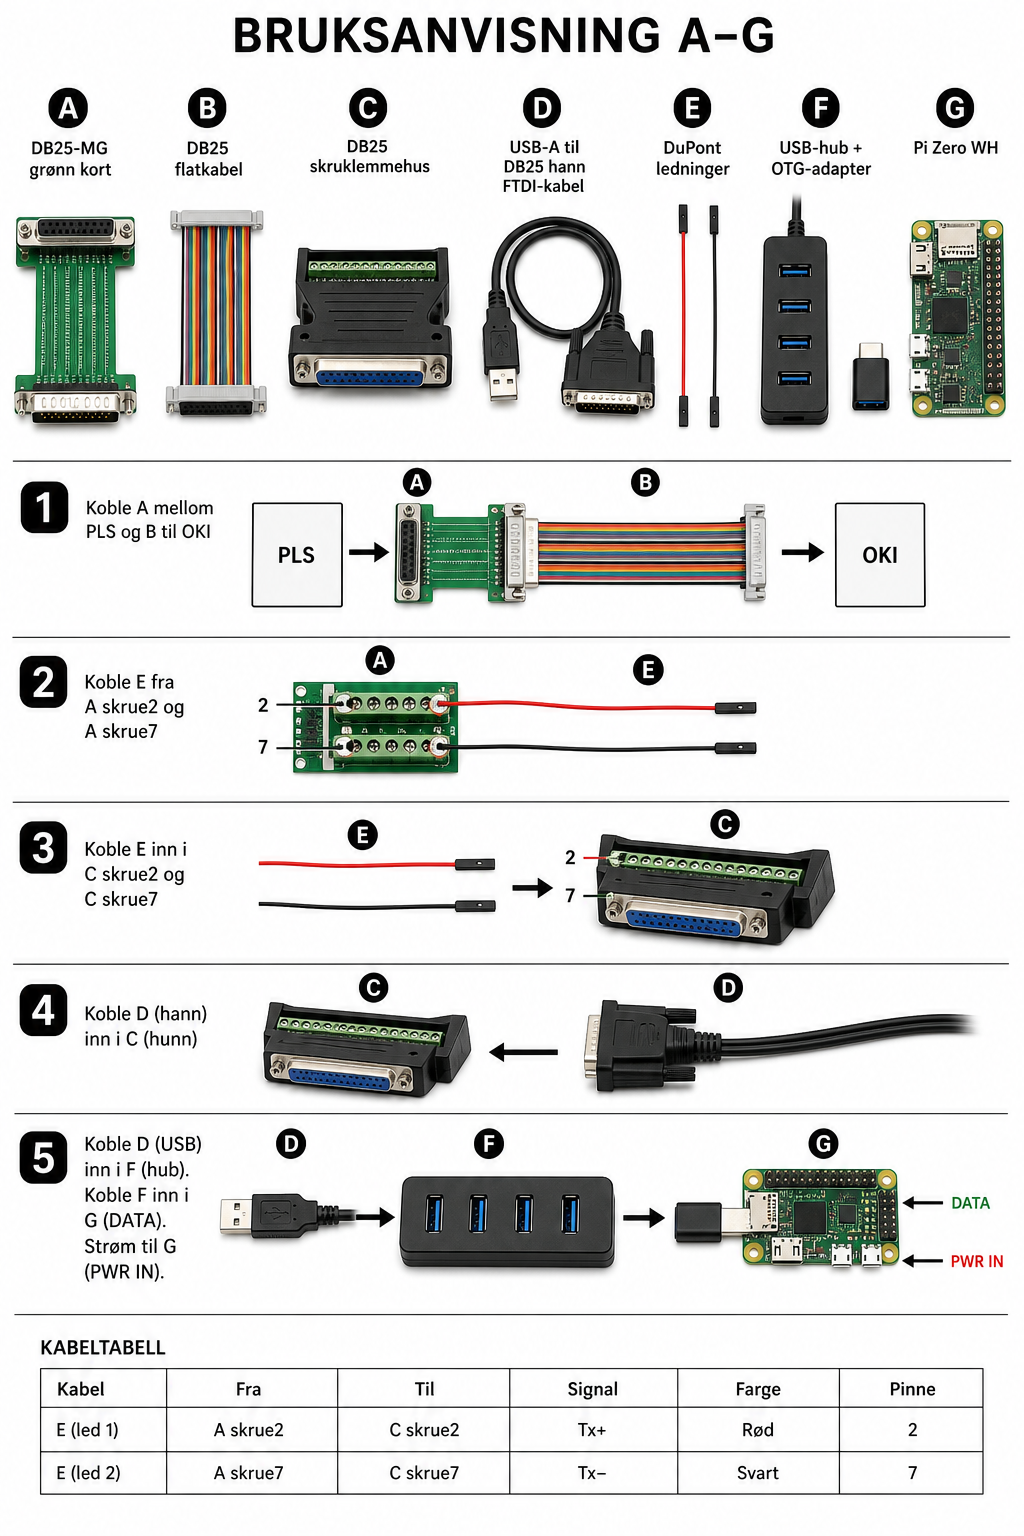
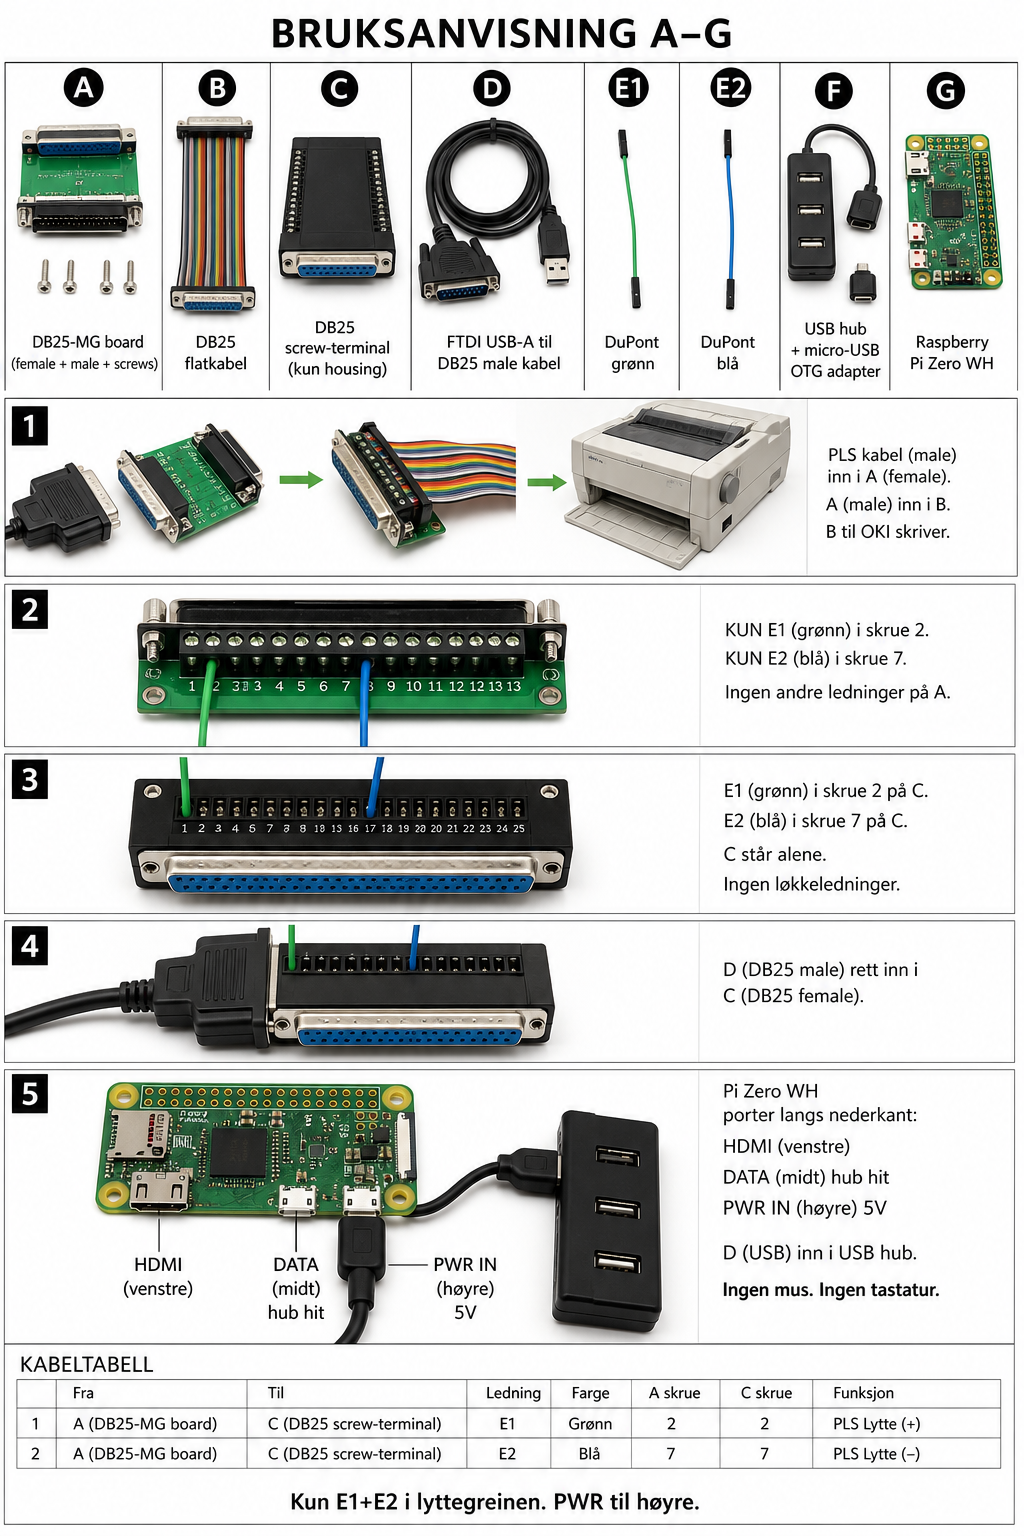
AI-foto bruksanvisning A–G med riktige Pi-porter
Kun E1+E2, PWR til høyre, DATA midt, HDMI venstre.

diff --git a/docs/no/wiring.md b/docs/no/wiring.md
@@ -1,6 +1,8 @@
 # Kobling — bruksanvisning A–G
 
-<img src="img/passiv-rs232-tapp.png" width="100%" alt="Bruksanvisning: kun E1+E2, Pi PWR til høyre"/>
+<img src="img/bruksanvisning-tapp-foto.png" width="100%" alt="AI-foto bruksanvisning A–G"/>
+
+<img src="img/passiv-rs232-tapp.png" width="100%" alt="Skjema bruksanvisning A–G"/>
 
 ## Gjenstander
 
